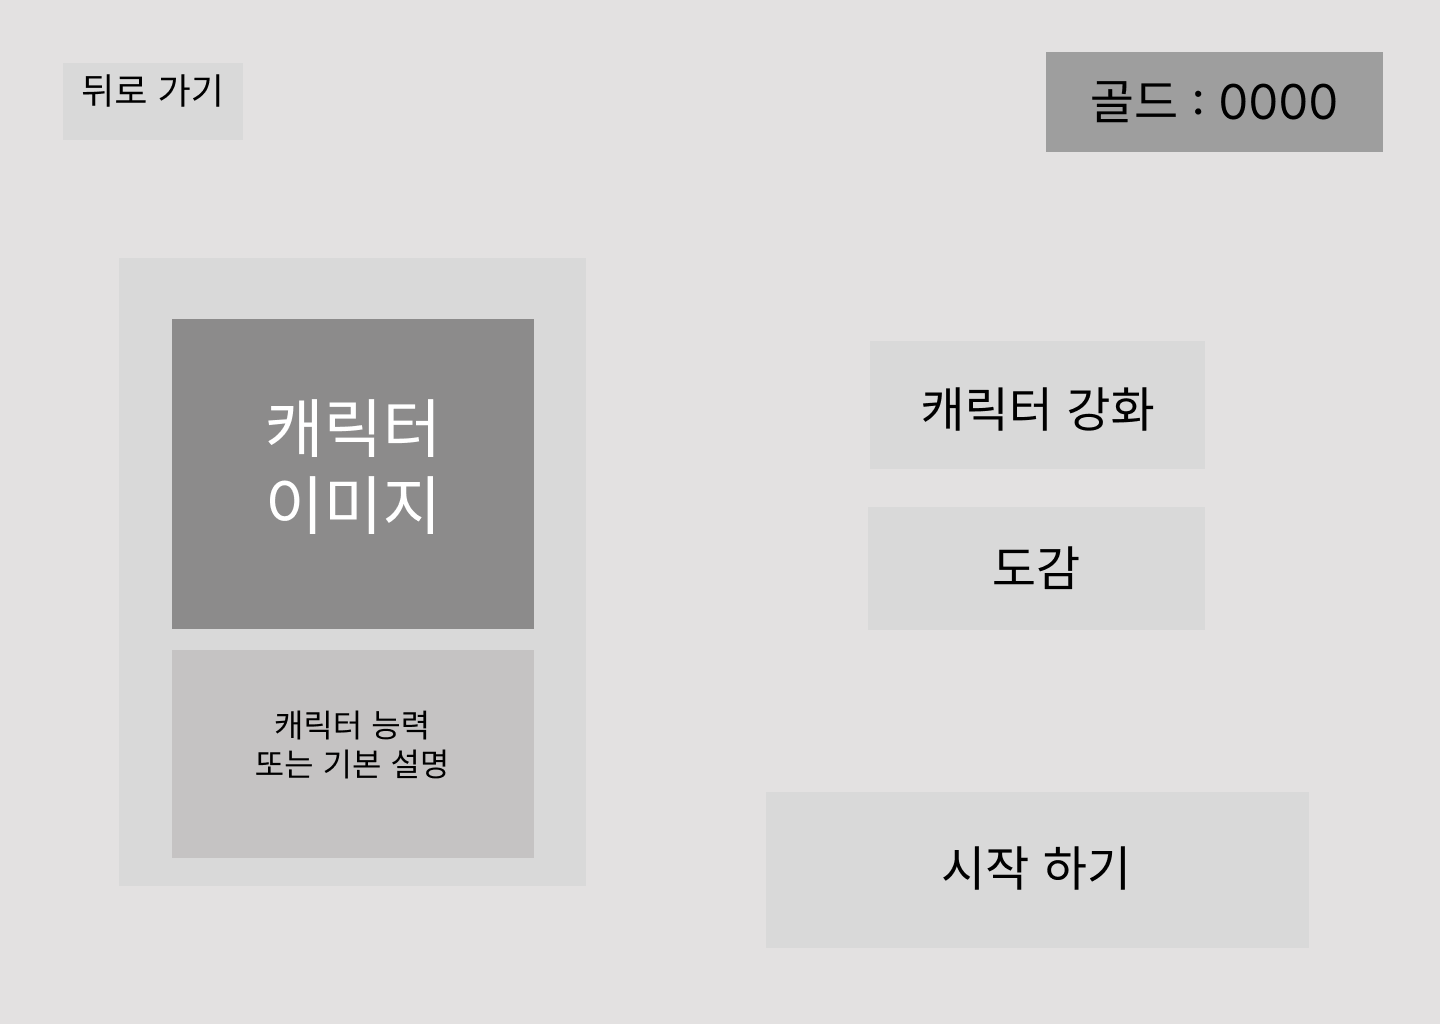
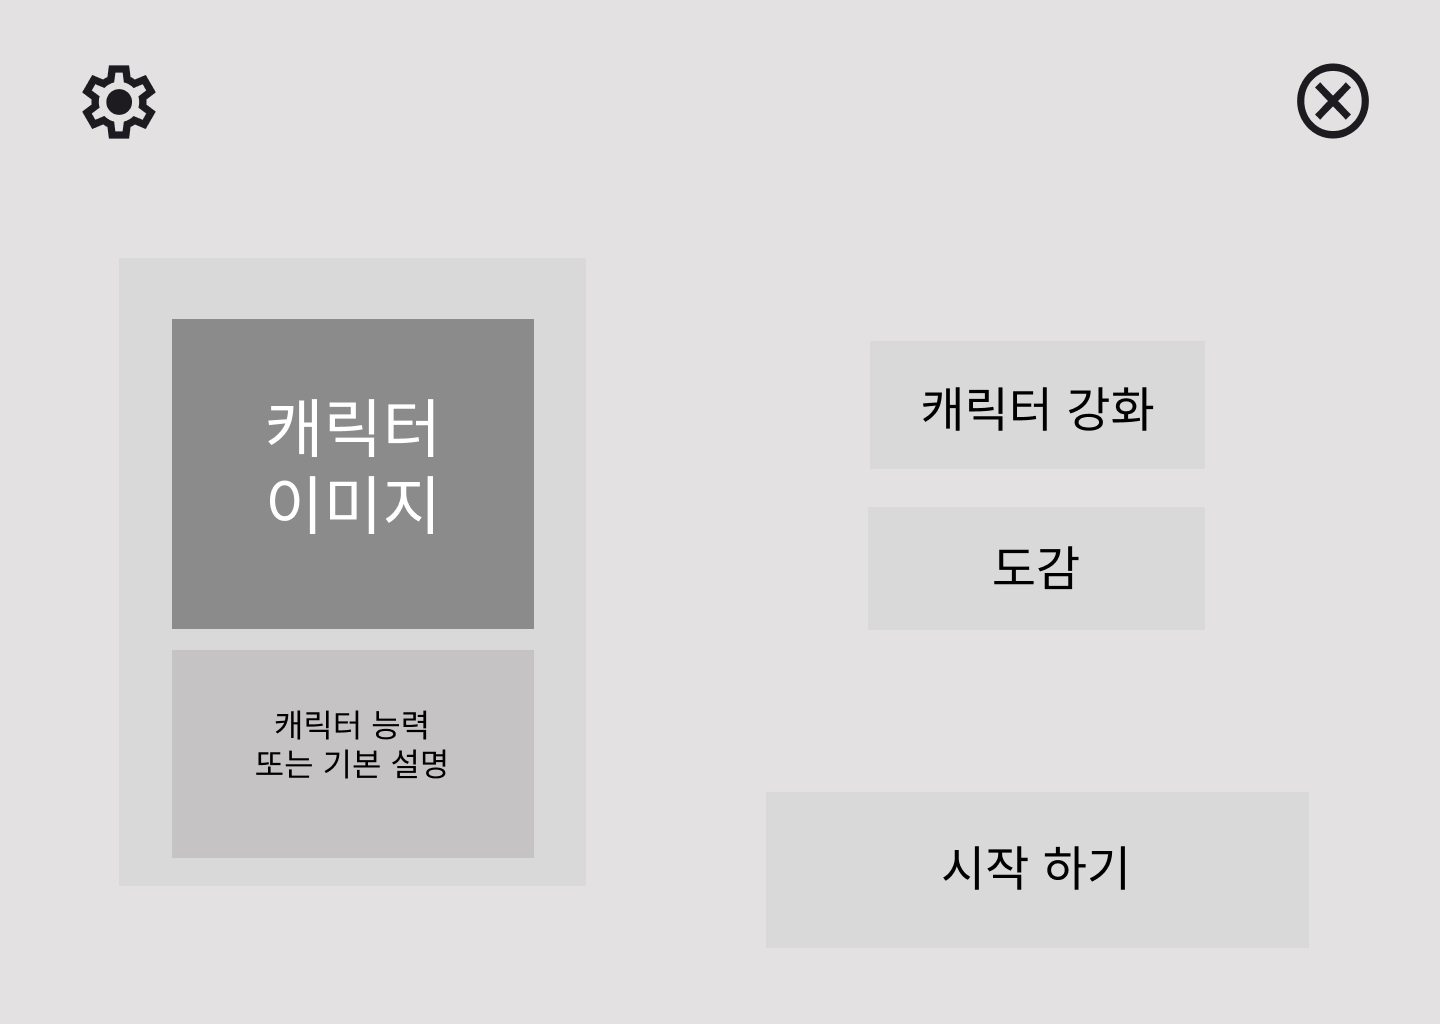
15,16 이미지 수정 및 텍스트 수정
doc: 15 state machine 이미지 변경 및 텍스트 수정
16 ui 프로토타입 이미지 수정 및 텍스트 수정

Changed region(s): [[0.7188, 0.0312, 0.9688, 0.1562], [0.0625, 0.0625, 0.1562, 0.1562]]

diff --git a/docs/02_SDS.md b/docs/02_SDS.md
@@ -232,7 +232,7 @@
 * 각 State는 게임에서 어떤 Scene을 보여주고 있는지에 대한 상태이고, Game Scene 내에서는 플레이어의 행동에 따라 캐릭터의 상태가 어떻게 바뀌는지 나타낸다.
 
 &ensp;이 프로젝트의 State는 크게 Title Scene, Lobby, Option, Directory, Enhance, Game Scene, Game Over, Game Clear가 있다.
-게임을 시작하게 되면 Title Scene에서 시작한다. Option 버튼을 누르면 옵션으로 그리고 Exit 버튼을 누르면 게임을 종료할 수 있다. 게임 하기 위해서 Game start 버튼을 누르면 로비 화면으로 들어간다. Lobby에서는 도감 버튼을 눌러서 플레이어가 게임을 플레이하면서 모은 오브젝트들의 정보를 확인 할 수 있으며, 강화 버튼을 통해 Enhance로 가서 플레이할 캐릭터의 능력치를 플레이어가 원하는 대로 강화할 수 있다. 그리고 Start 버튼을 누르면 Game Scene으로 들어간다. 
+게임을 시작하게 되면 Title Scene에서 시작한다. Title 화면에서 아무키나 누르면 Lobby화면으로 이동한다. Lobby화면에서 Option 버튼을 누르면 옵션으로 그리고 Exit 버튼을 누르면 게임을 종료할 수 있다. Lobby에서는 도감 버튼을 눌러서 플레이어가 게임을 플레이하면서 모은 오브젝트들의 정보를 확인 할 수 있으며, 강화 버튼을 통해 Enhance로 가서 플레이할 캐릭터의 능력치를 플레이어가 원하는 대로 강화할 수 있다. 그리고 게임을 하기 위해서 Start 버튼을 누르면 Game Scene으로 들어간다. 
 
 &ensp;Game Scene에 들어가면 본격적으로 게임을 플레이할 수 있다. 게임 특성상 공격은 자동으로 나가기 때문에 Player는 기본적으로 움직이는 Move 상태, 움직이지 않는 idle 상태, Enemy에게 데미지를 입은 Damaged 상태, 그리고 피가 0 이하면 죽는 Dead 상태가 있다. 시스템 내부적으로 Enemy는 Player의 주변에서 Spawn 된다. Spawn 상태 이후에 Player가 있는 방향으로 이동하는 Chase 상태, Player와 충돌하거나 공격 범위 내에 있을 때 공격하는 Attack 상태, 그리고 Player의 공격에 맞았을 때 데미지를 받는 Damaged 상태가 있다. 이 Enemy의 모든 행동은 Enemy의 hp가 0이 아닐 때 작동하며 hp가 0 이하가 되면 Enemy는 사라진다. 만약 Player가 Dead 상태가 되면 Game Over로 넘어간다. Game Over에서는 재시작 버튼을 눌러 다시 Game Scene으로 돌아가 게임을 할 수 있고 로비 버튼을 통해 Lobby로 돌아갈 수도 있다. 또한 플레이어가 마지막 보스를 쓰러뜨리면 Game Clear로 간다. Game Clear에서도 마찬가지로 Game Scene이나 Lobby로 돌아갈 수 있다. 게임은 Game Clear나 Game Over가 되면 끝난다. 
 
@@ -244,15 +244,14 @@
 
 
 
-### 6.1 메인 화면 (Main Menu)
+### 6.1 타이틀 화면 (Title)
 
 * 아래 [그림 6-1]은 게임을 맨 처음 실행하면 등장하는 타이틀 화면이다.
 
 ![Title](imgs/UI_Prototype/Title.png)
 
 
- &ensp;게임을 실행하면 처음으로 나타나는 타이틀 화면이다. ‘시작’ 버튼으로 메인 로비로 넘어갈 수 있고, ‘옵션’ 버튼으로 게임의 화면, 소리와 관련된 상세 설정을 할 수 있다. ‘종료’ 버튼을 누르면 게임을 바로 종료할 수도 있다.
-
+ &ensp;게임을 실행하면 처음으로 나타나는 타이틀 화면이다. 아무 키나 누르면 로비 화면으로 넘어간다.
 ### 6.2 환경설정 화면
 * 아래 [그림 6-2]는 타이틀 화면에서 옵션창을 눌렀을 때 나오는 화면이다.
 
